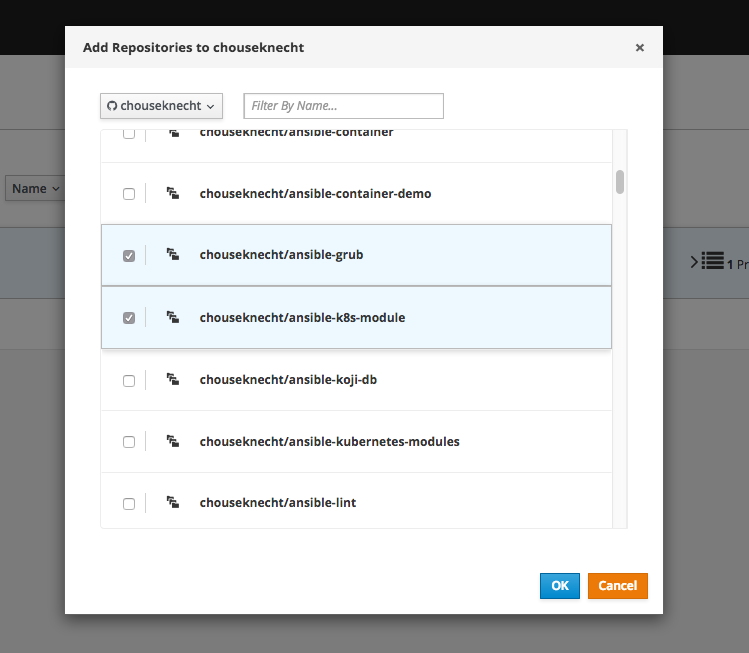
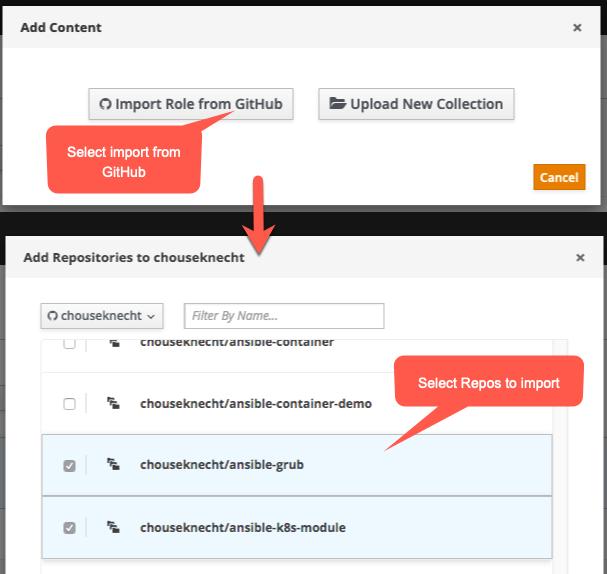
Add importing section for collections.

diff --git a/docs/docsite/rst/contributing/importing.rst b/docs/docsite/rst/contributing/importing.rst
@@ -14,9 +14,6 @@ This topic describes how to import Ansible content into the public Galaxy web si
 Getting Started
 ===============
 
-At present, Galaxy only imports content from `GitHub <https://github.com>`_, and importing content to the `public Galaxy server </>`_
-requires authentication using a GitHub account.
-
 Logging In
 ----------
 
@@ -37,6 +34,10 @@ permissions to Galaxy:
 Galaxy requires access to your email address, in case an admin needs to reach out to you, read-write access to public repositories,
 using the ``public_repo`` scope, and read access to your organizations and teams. Galaxy will never write or commit anything to a
 repository. It needs access to public repositories so that it can read commits and the list of collaborators.
+
+.. note::
+    Galaxy only needs organization access to GitHub orgs for importing Roles from GitHub. Collections are hosted by Galaxy and can't
+    be imported from GitHub. As such, Collections, don't require GitHub access outside of using a GitHub account to login to Galaxy.
 
 Be sure to click the *Grant* button next to each organization that contains Ansible content you want to import into Galaxy. The following
 image shows the *Grant* button, after clicking it, you'll see a green checkmark to the right of the ogranization name, indicating that
@@ -81,7 +82,7 @@ Web Interface
 
 Before importing content into Galaxy, you must first authenticate using your GitHub credentials as discussed in :ref:`import_get_started`.
 
-Go to `My Content </my-content/namespaces>`_, where you will see one or more Galaxy namespaces, as depected in the image below. The first
+Go to `My Content </my-content/namespaces>`_, where you will see one or more Galaxy namespaces, as depicted in the image below. The first
 time you logged in, Galaxy created a namespace matching your GitHub namespace, so you should see at least one namespace. You'll
 import content from GitHub into a Galaxy namespace.
 
@@ -99,7 +100,8 @@ To add GitHub repositories to the namespace, click the *Add Content* button, as 
 
 .. image:: mycontent-03.png
 
-In the dialog box, as shown in the image below, choose the repositories you wish to add, and click the *OK* button to add them:
+In the dialog box, as shown in the image below, click "Import Role from GitHub" and then pick the repositories you wish to add,
+and click the *OK* button to add them:
 
 .. image:: mycontent-04.png
 
@@ -119,14 +121,23 @@ from a failed import, where several issues were found by YamlLint:
 
 .. image:: myimports-01.png
 
-With the issue resolved, restart the import process by clicking the import button near the top-right corner of My Imports, as shown
-below:
-
-.. image:: myimports-02.png
-
 You can also restart the import by clicking the import button on My Content for the repository, as shown here:
 
 .. image:: mycontent-07.png
+
+Adding Collections
+------------------
+
+To add Collections to a namespace, click the *Add Content* button as shown above. From the dialogue box, select "Upload New Collection".
+This will prompt you to upload collection artifact. Collection artifacts are built using ``mazer build`` as documented
+here: :ref:`building_collections`.
+
+.. image:: mycontent-13.png
+
+Once a collection has been uploaded and accepted by Galaxy, you will be redirected to the Imports page which will display the console
+output from the import process. As with roles, this will let you know if anything is wrong with your collection.
+
+.. image:: myimports-02.png
 
 Adding GitHub Organizations
 ---------------------------

diff --git a/docs/docsite/rst/contributing/creating_collections.rst b/docs/docsite/rst/contributing/creating_collections.rst
@@ -101,8 +101,10 @@ Optional Fields:
     - ``issues``: URL for issue tracker.
 
 
-Building and Distributing
-=========================
+.. _building_collections:
+
+Building and Distributing Collections
+=====================================
 
 Building collections requires using the ``mazer`` command line tool available at the `Ansible
 Mazer project <https://github.com/ansible/mazer>`_.
